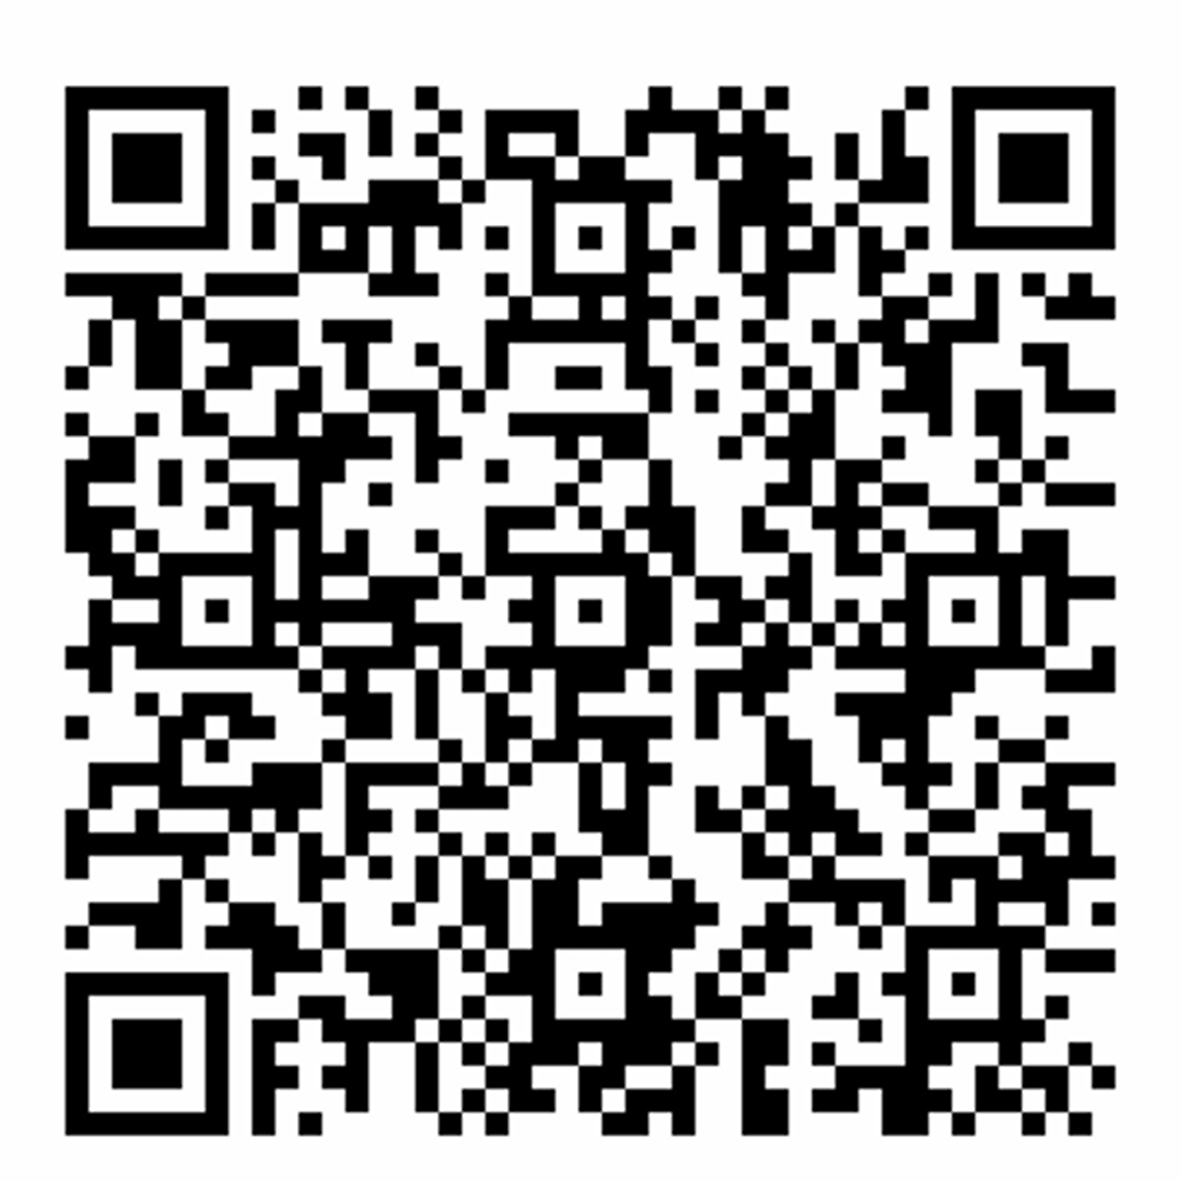
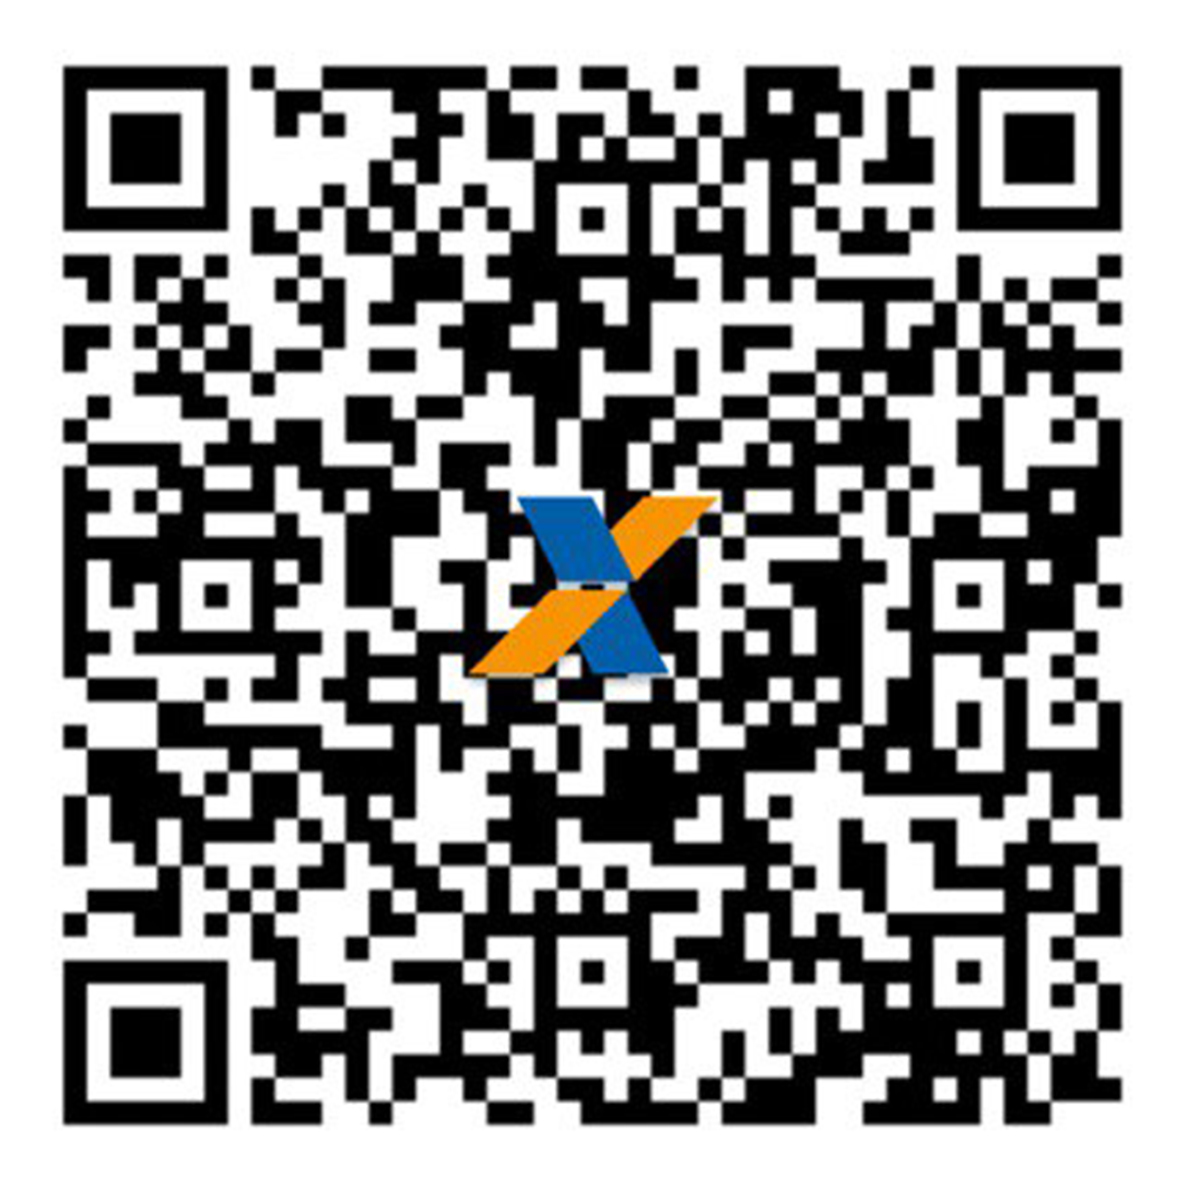
okokok

diff --git a/payment.html b/payment.html
@@ -813,44 +813,20 @@
         <div class="payment-container">
             <div class="payment-header">
                 <h2>Escolha seu plano</h2>
-                <p>Invista em resultados melhores com nossos planos acessíveis</p>
+                <p>Invista em resultados melhores com nosso plano acessível</p>
             </div>
             
             <div class="plans-container">
                 <div class="price-container">
-                    <span class="price-label">Mensal</span>
+                    <span class="price-label">Plano Promocional</span>
                     <div class="price-amount">
                         <span class="price-currency">R$</span>
-                        <span class="price-value">25</span>
+                        <span class="price-value">15</span>
                         <span class="price-period">/mês</span>
                     </div>
-                    <div class="price-description">Acesso completo a todas as análises e estatísticas</div>
-                    <div class="qr-code-plan-container"> <br>
-                        <img src="img/qr25.jpg" alt="QR Code Mensal" class="qr-code-plan">
-                    </div>
-                </div>
-                <div class="price-container">
-                    <span class="price-label">Trimestral</span>
-                    <div class="price-amount">
-                        <span class="price-currency">R$</span>
-                        <span class="price-value">67,50</span>
-                        <span class="price-period">/3 meses</span>
-                    </div>
-                    <div class="price-description">10% de desconto<br>apenas R$ 22,50/mês</div>
-                    <div class="qr-code-plan-container"> <br>
-                        <img src="img/qr3meses.jpg" alt="QR Code Trimestral" class="qr-code-plan">
-                    </div>
-                </div>
-                <div class="price-container">
-                    <span class="price-label">Semestral</span>
-                    <div class="price-amount">
-                        <span class="price-currency">R$</span>
-                        <span class="price-value">120</span>
-                        <span class="price-period">/6 meses</span>
-                    </div>
-                    <div class="price-description">20% de desconto<br>apenas R$ 20,00/mês <br> Bônus: Mais de 15 PDF com aulas e dicas valiosas!</div>
+                    <div class="price-description">Acesso completo a todas as análises e estatísticas<br>Bônus: Mais de 15 PDFs com aulas e dicas valiosas!</div>
                     <div class="qr-code-plan-container">
-                        <img src="img/qr6meses.jpg" alt="QR Code Semestral" class="qr-code-plan">
+                        <img src="img/qr.jpg" alt="QR Code Mensal" class="qr-code-plan">
                     </div>
                 </div>
             </div>
